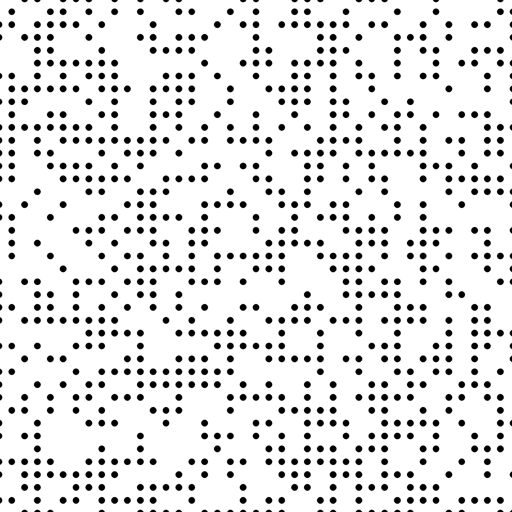
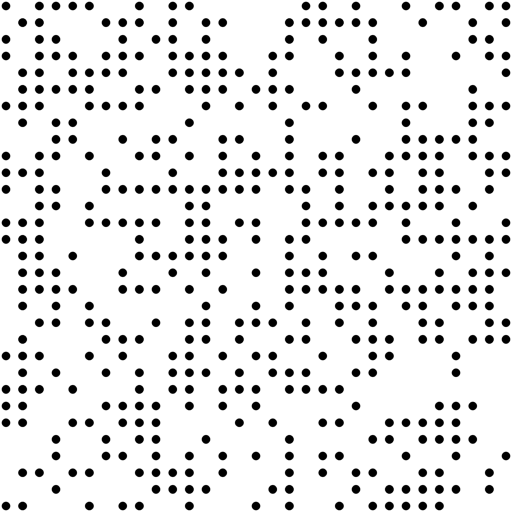
v2.6

Changed region(s): [[0.0, 0.0, 1.0, 1.0], [0.4375, 0.0, 0.5312, 0.0625]]

diff --git a/lib/QRCodeArt.py b/lib/QRCodeArt.py
@@ -5,6 +5,11 @@ import qrcode
 from lib.Tool import Vector2, inRange
 import random
 
+def setLayerAlpha(img: Image.Image, a: float) -> Image.Image:
+  img = img.convert("RGBA")
+  r, g, b, alpha = img.split()
+  return Image.merge("RGBA", (r, g, b, alpha.point(lambda p: int(p * a))))
+
 class DrawStyle(Enum): # QRCode 的定位點樣式
 	SQUARE = 1
 	CICRLE = 2
@@ -20,10 +25,10 @@ class DrawData: # 計算繪製參數
 		self.qr_pixel_width = qrcode_width / len(self.qr_arr) # 每個 QRCode 像素的實際邊長
 	# 建構子
 	
-	def getPosLayer(self, draw_style: DrawStyle) -> Image.Image:
+	def getPosLayer(self, draw_style: DrawStyle, alpha: float = 1) -> Image.Image:
 		qr_w_pixels = len(self.qr_arr) # QRCode 的像素邊長 (px)
 		
-		v2_img_size = self.v2_output_size * self.SMOOTH_RATE
+		v2_img_size = self.v2_output_size * self.SMOOTH_RATE # 暫時將圖片放大, 消除鋸齒邊緣
 		img = Image.new("RGBA", v2_img_size.tup(), (0, 0, 0, 0)) # 透明圖層, 用於繪製定位點
 		imgDraw = ImageDraw.Draw(img) # 繪圖用
 		
@@ -48,10 +53,13 @@ class DrawData: # 計算繪製參數
 					pos_radius = self.qr_pixel_width * pixel_radius * self.SMOOTH_RATE
 					_drawColorDot(imgDraw, v2_draw_pos, pos_radius, color_code)
 		
-		return img.resize(self.v2_output_size.tup())
+		img = img.resize(self.v2_output_size.tup()) # 回復原本大小的圖片
+		img = setLayerAlpha(img, alpha) # 調整不透明度
+		
+		return img
 	# 生成定位點圖層
 	
-	def getDataLayer(self, draw_style: DrawStyle, pixel_radius_scale: float, alpha_code: str = "f") -> Image.Image:
+	def getDataLayer(self, draw_style: DrawStyle, pixel_radius_scale: float, alpha: float = 1) -> Image.Image:
 		qr_w_pixels = len(self.qr_arr) # QRCode 的像素邊長 (px)
 		
 		v2_img_size = self.v2_output_size * self.SMOOTH_RATE
@@ -64,13 +72,16 @@ class DrawData: # 計算繪製參數
 				
 				v2_draw_pos = (self.v2_qr_draw_pos + Vector2(i + 0.5, j + 0.5) * self.qr_pixel_width) * self.SMOOTH_RATE
 				pixel_radius = (self.qr_pixel_width / 2) * pixel_radius_scale * self.SMOOTH_RATE
-				pixel_color = ("000" if self.qr_arr[j][i] else "fff") + alpha_code # QRCode 像素點是黑色還是白色
+				pixel_color = "000" if self.qr_arr[j][i] else "fff" # QRCode 像素點是黑色還是白色
 				if draw_style == DrawStyle.CICRLE:
 					_drawColorDot(imgDraw, v2_draw_pos, pixel_radius, pixel_color) # 繪製定位點
 				elif draw_style == DrawStyle.SQUARE:
 					_drawColorRect(imgDraw, v2_draw_pos, pixel_radius, pixel_color) # 繪製定位點
 		
-		return img.resize(self.v2_output_size.tup())
+		img = img.resize(self.v2_output_size.tup()) # 回復原本大小的圖片
+		img = setLayerAlpha(img, alpha) # 調整不透明度
+		
+		return img
 	# 生成資料點圖層
 	
 	def getDataLayerAndRandomBg(self, draw_style: DrawStyle, pixel_radius_scale: float) -> Image.Image:
@@ -180,7 +191,6 @@ def _getQRCodeArr(data: str, correct_level: int) -> list[list[int]]:
 	qr.add_data(data) # 放入資料
 	qr.make(fit=True) # 計算 QRCode
 	PILimg_QRCode = qr.make_image(fill_color="#000", back_color="#fff") # 生成 QRCode 圖片
-	PILimg_QRCode.save("QRCode.png")
 	NParr_QRCodeImg = np.array(PILimg_QRCode) # 圖片轉 np 陣列
 	return [[0 if j[0] == 255 else 1 for j in i] for i in NParr_QRCodeImg] # 生成 白為0 黑為1 的矩陣
 # 生成 白為0 黑為1 的 QRCode 矩陣, 容錯率依序為L/M/Q/H

diff --git a/main.py b/main.py
@@ -10,20 +10,16 @@ pipeline = StableDiffusionControlNetPipeline.from_pretrained(
 pipeline.safety_checker = None
 
 # data, prompt, shortPrompt = ("https://www.youtube.com/watch?v=P_CSdxSGfaA", "snow pine forest", "SF") # SF
-data, prompt, shortPrompt = ("https://cse.ntou.edu.tw/?---------------------------------", "sea, waves", "SW") # SW
+data, prompt, shortPrompt = ("https://cse.ntou.edu.tw/", "sea, waves", "SW") # SW
 negative_prompt = "blurry, letter, people"
-image_num = 100 # 生成的圖片個數
+image_num = 1 # 生成的圖片個數
 
 control_pixel_radius = 0.5
 drawData = DrawData(data, qrcode.ERROR_CORRECT_M, (512, 512), 450) # 計算繪製 QRCode 的資料
 control_image = drawData.getDataLayerAndRandomBg(DrawStyle.CICRLE, control_pixel_radius) # 將 QRCode 資料點加入 control image
 control_image.save("control_image.png")
-print("-> module width =", drawData._getQrWidth()) # test
 
 for i in range(image_num):
-	pixel_radius = 0.2 # 額外添加的資料點的半徑
-	pixel_alpha = "A" # 額外添加的資料點像素的不透明度
-	
 	output_image = pipeline( # 使用 sd 生成與 QRCode 相近的圖片
 		image=control_image, prompt=prompt, negative_prompt=negative_prompt,
 		num_inference_steps=50, guidance_scale=8
@@ -32,8 +28,8 @@ for i in range(image_num):
 	
 	error = drawData.getErrorRate(output_image) # 計算圖片錯誤率
 	
-	output_image = Image.alpha_composite(output_image, drawData.getPosLayer(DrawStyle.CICRLE)) # 額外添加圓形定位點
-	output_image = Image.alpha_composite(output_image, drawData.getDataLayer(DrawStyle.CICRLE, pixel_radius, pixel_alpha)) # 額外添加資料點像素
+	output_image = Image.alpha_composite(output_image, drawData.getPosLayer(DrawStyle.CICRLE, 0.8)) # 額外添加圓形定位點
+	output_image = Image.alpha_composite(output_image, drawData.getDataLayer(DrawStyle.CICRLE, 0.2, 0.65)) # 額外添加資料點像素
 	
 	output_image_name = f"{shortPrompt}_#{i}_cpr{control_pixel_radius}_pge{error[0]:.3f}_pgad{error[1]:.3f}"
 	output_image.save(f"output/{output_image_name}.png")

diff --git a/test.py b/test.py
@@ -1,0 +1,12 @@
+import random, qrcode
+from PIL import Image
+from lib.QRCodeArt import DrawData, DrawStyle
+
+def mergeLayer(img_back: Image.Image, img_fore: Image.Image) -> Image.Image:
+  return Image.alpha_composite(img_back, img_fore)
+
+img = Image.open("img/night.png").convert("RGBA")
+drawData = DrawData("https://www.youtube.com/@bluenight1022", qrcode.ERROR_CORRECT_M, img.size, img.size[0]) # 計算繪製 QRCode 的資料
+img = mergeLayer(img, drawData.getPosLayer(DrawStyle.CICRLE, 1))
+img = mergeLayer(img, drawData.getDataLayer(DrawStyle.CICRLE, 0.18, 0.66))
+img.save("output/test.png")
